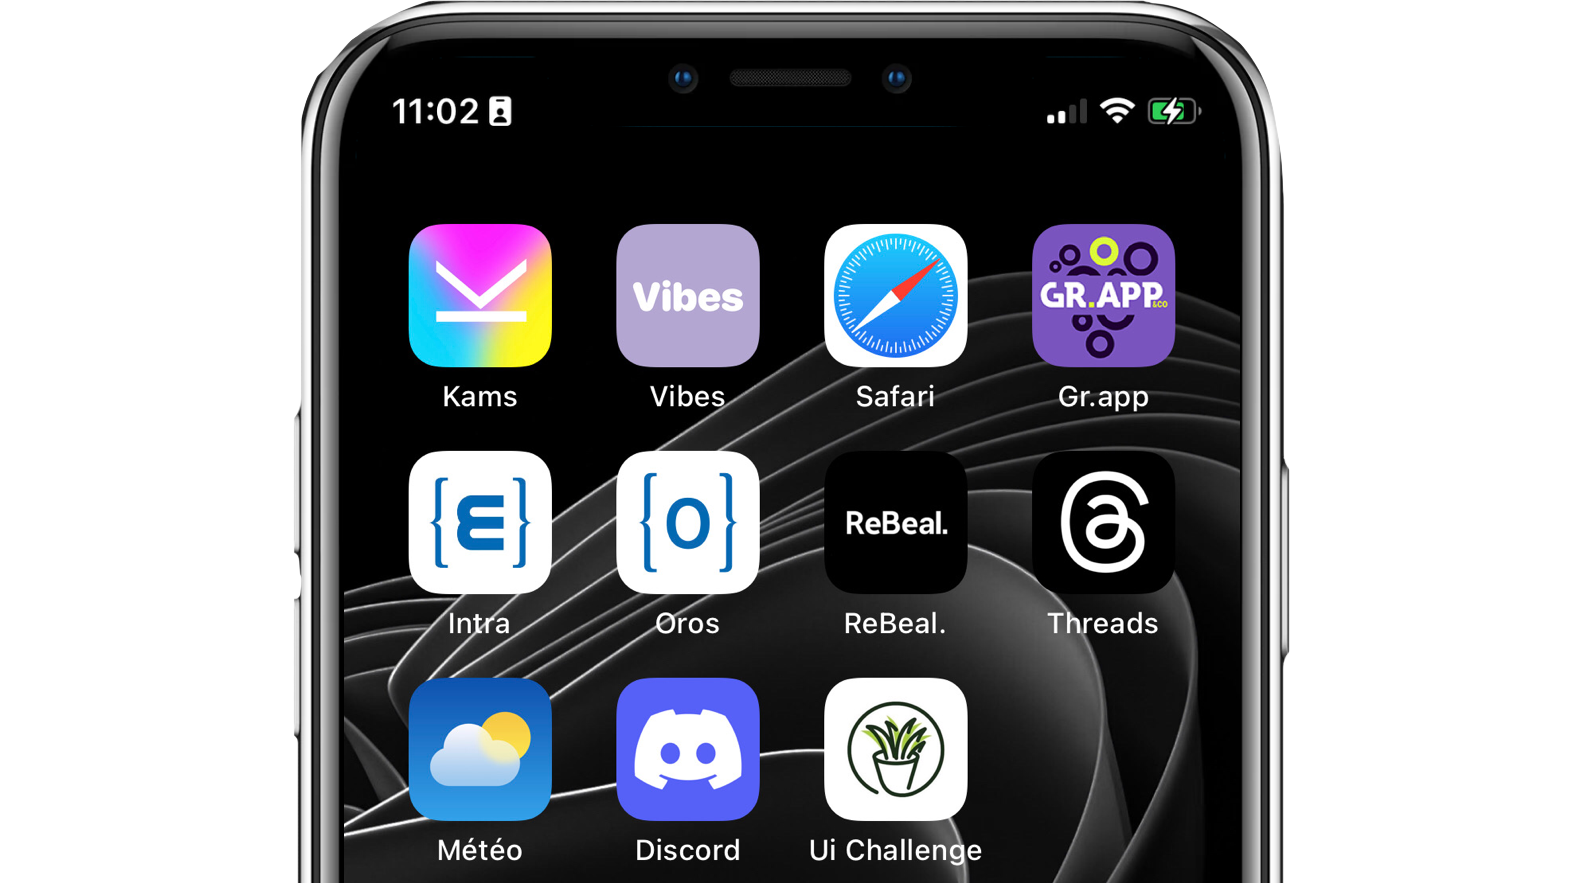
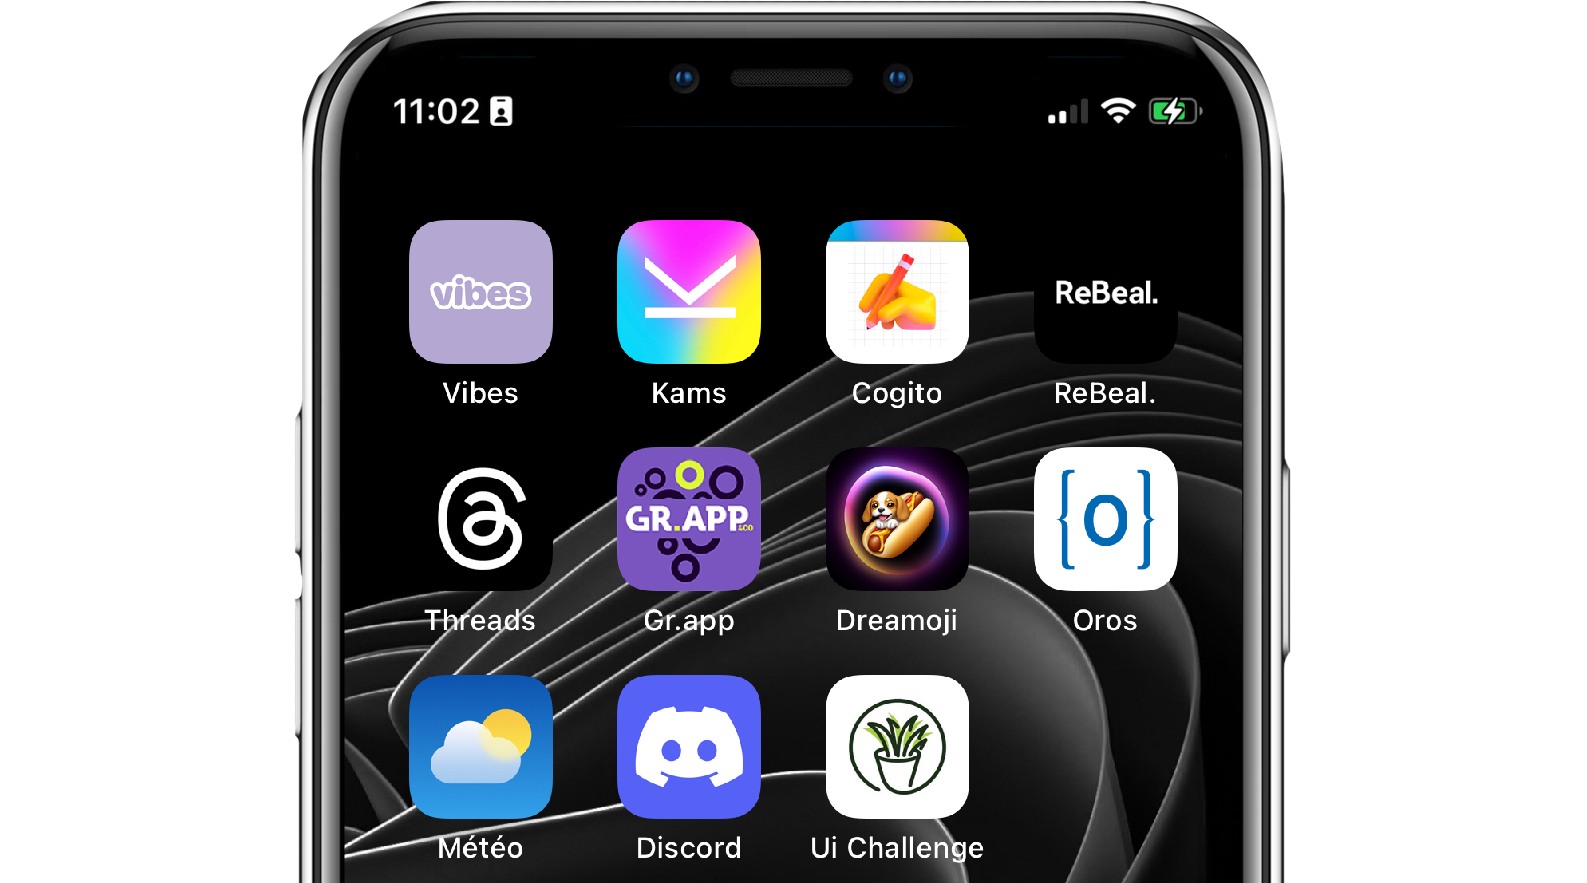
..

diff --git a/README.md b/README.md
@@ -1,28 +1,36 @@
 
 <a><img src="./iphone.png"></img></a>
 
-<h3 align="center">I'm Antoine Gonthier, Epitech Student & Full-stack Flutter developer passionate about developing cool graphical interface on the application that I develop. I love developing servers in order to create link between people, innovate & learn new technologies.</h3>
+<h3 align="center">All you have to know about me is that i am building fun apps ✨</h3>
 
 # <p align="center">⚙ Technical Skills</p>
 
-<p align="center">
-  <a>
-    <img src="https://skillicons.dev/icons?i=flutter,mongodb,express,firebase,nodejs,js,dart,mysql,ruby,docker" />
+You know lol ...
+
+# <p align="center">🤫 Current Projects</p>
+<div style="display: flex; flex-direction: column; align-items: center; gap: 20px; padding: 20px;">
+  <a href="http://vibeswidget.com" style="display: flex; align-items: center; text-decoration: none; padding: 10px; border: 1px solid #2f353d; border-radius: 20px; width: 100%; max-width: 400px;">
+    <img src="vibes.png" alt="Vibes" style="width: 50px; height: 50px; border-radius: 10px; margin-right: 10px;">
+    <span style="font-size: 20px;">Vibes (+2.3m users)</span>
   </a>
-</p>
-<p align="center">
-  <a>
-    <img src="https://skillicons.dev/icons?i=html,css,swift,gradle,graphql,git,github,supabase,kotlin,perl" />
+  <a href="http://dreamoji.ai" style="display: flex; align-items: center; text-decoration: none; padding: 10px; border: 1px solid #2f353d; border-radius: 20px; width: 100%; max-width: 400px;">
+    <img src="dreamoji.png" alt="Dreamoji" style="width: 50px; height: 50px; border-radius: 10px; margin-right: 10px;">
+    <span style="font-size: 20px;">Dreamoji (+230k users)</span>
   </a>
-</p>
+  <a href="" style="display: flex; align-items: center; text-decoration: none; padding: 10px; border: 1px solid #2f353d; border-radius: 20px; width: 100%; max-width: 400px;">
+    <img src="github.png" alt="Open source projects" style="width: 50px; height: 50px; border-radius: 10px; margin-right: 10px;">
+    <span style="font-size: 20px;">Open source projects (+30k uses)</span>
+  </a>
+  <a href="http://revisio-ai.web.app" style="display: flex; align-items: center; text-decoration: none; padding: 10px; border: 1px solid #2f353d; border-radius: 20px; width: 100%; max-width: 400px;">
+    <img src="cogito.png" alt="Cogito" style="width: 50px; height: 50px; border-radius: 10px; margin-right: 10px;">
+    <span style="font-size: 20px;">Cogito (⏳)</span>
+  </a>
+  <a href="" style="display: flex; align-items: center; text-decoration: none; padding: 10px; border: 1px solid #2f353d; border-radius: 20px; width: 100%; max-width: 400px;">
+    <span style="font-size: 20px;">Locked In (⏳)</span>
+  </a>
+</div>
 
-# <p align="center">⚙ Work</p>
-
-<p align="center"><a href ="http://vibeswidget.com"><img  height="60" src="https://play-lh.googleusercontent.com/eyJWARbK5Raf9r5C-aaRLSCkAIPwBibz5PvOz9LI56ZsTLEB3HDxo4tn_nmqwVXd5A=w240-h480-rw"></a></p>
-
-<h3 align="center">I am currently developing the Android app of Vibes Widget.</h3>
-
-# <p align="center">🔗 Links</p>
+# <p align="center">🔗 Contacts</p>
 
 <p align="center">
   <a href="https://medium.com/@zkhwctb">
